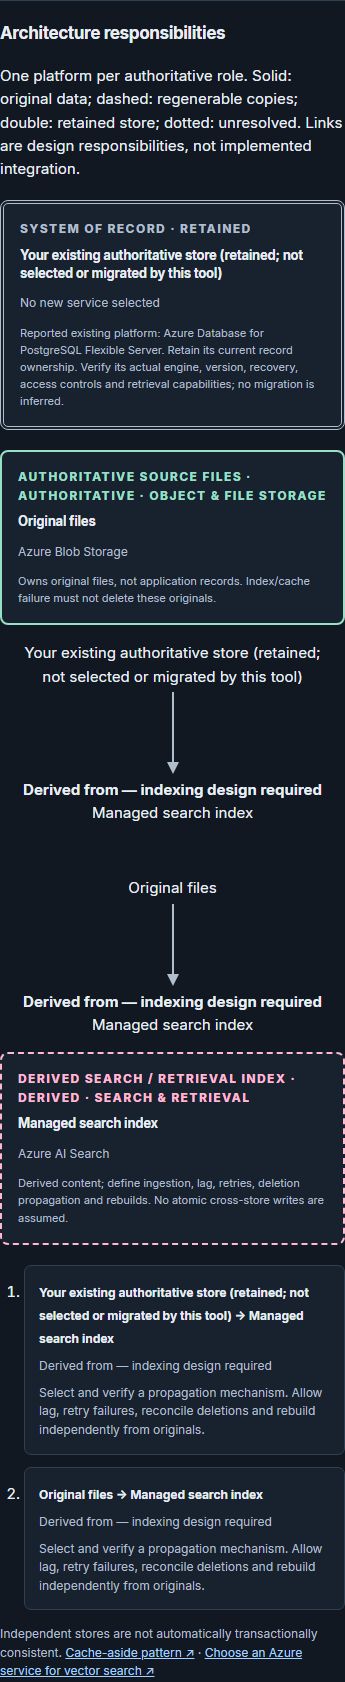
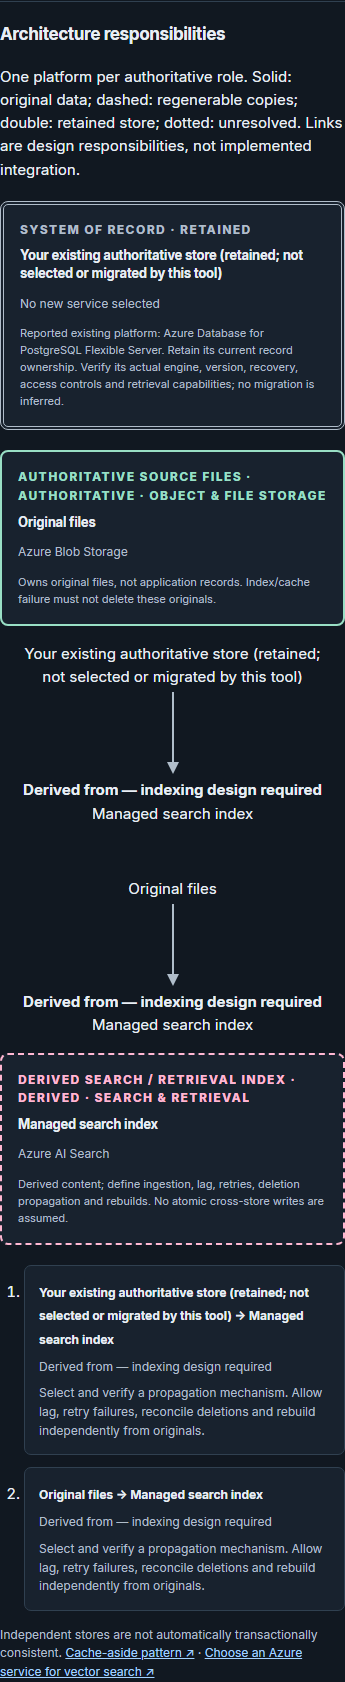
Preserve document engine contracts and whole-word badges
Gate JSON assessment prompts on declared engine contracts, keep MongoDB and Cassandra protocols distinct, and test badge word widths throughout all viewport/theme projects.

diff --git a/tests/reachable-results.test.js b/tests/reachable-results.test.js
@@ -9,6 +9,9 @@ import { resultIssues } from '../scripts/validation.mjs';
 import { serviceById } from '../src/data/services.js';
 import { sourceById } from '../src/data/sources.js';
 import { ruleById } from '../src/data/rules.js';
+import { scenarios } from '../src/data/scenarios.js';
+
+const contracts = ['sqlserver', 'postgres', 'mysql', 'mariadb', 'mongodb', 'cassandra'];
 
 test('UI-reachable sweep always names missing information and preserves document alternatives', (t) => {
   const sweeps = [
@@ -37,6 +40,54 @@ test('UI-reachable sweep always names missing information and preserves document
   }
   assert.ok(checked > 100000 && insufficient > 0 && documents > 0, `${checked} checked, ${insufficient} insufficient, ${documents} document shortlists`);
   t.diagnostic(`Pruned UI-answer sweep: ${checked} results; ${insufficient} insufficient outcomes have named unknowns; ${documents} document shortlists preserve relational alternatives.`);
+});
+
+test('document alternatives respect declared engine/client contracts in engine-inclusive reachable sweeps', (t) => {
+  const engines = [...contracts, 'unknown', 'other', undefined];
+  const sweeps = [
+    { workload: ['migration', 'mixed'], dataShape: ['documents'], relationships: null, accessPattern: null, migrationIntent: null, engine: engines, geography: null },
+    { workload: ['mixed'], dataShape: ['mixed'], relationships: ['aggregate', 'joins', 'unknown'], accessPattern: ['document-aggregate', 'partition-key-lookup', 'unknown'], engine: engines, geography: null, sourceFiles: null, durable: ['yes'], recordModel: ['documents'] }
+  ];
+  let checked = 0;
+  for (const domains of sweeps) {
+    for (const answers of reachableAnswers(domains, { persistence: 'durable', recovery: 'important' })) {
+      const result = evaluate(answers);
+      checked++;
+      const ids = result.candidates.map((item) => item.serviceId);
+      if (contracts.includes(answers.engine)) assert.deepEqual(result.alsoAssess || [], [], JSON.stringify(answers));
+      if (['mongodb', 'cassandra'].includes(answers.engine)) assert.ok(!ids.includes('cosmos-nosql'), JSON.stringify(answers));
+      if (!contracts.includes(answers.engine) && (answers.dataShape === 'documents' || answers.recordModel === 'documents') && ['shortlist', 'primary-candidate', 'multi-store'].includes(result.kind) && ids.some((id) => ['cosmos-nosql', 'azure-sql-db', 'postgres-flex'].includes(id))) {
+        for (const id of ['azure-sql-db', 'postgres-flex']) {
+          assert.ok(ids.includes(id) || result.alsoAssess?.some((item) => item.serviceId === id), JSON.stringify(answers));
+        }
+      }
+    }
+  }
+  t.diagnostic(`Engine-inclusive pruned UI-answer sweep: ${checked} results across nine engine states, migration intent and document/composite paths.`);
+});
+
+test('document contracts preserve MongoDB and Cassandra choices without cross-engine JSON prompts', () => {
+  const mongo = scenarios.find((scenario) => scenario.id === 'mongodb-migration').answers;
+  for (const geography of ['single-region', 'multi-region-read', 'multi-region-write']) {
+    const input = { ...mongo, geography };
+    assert.deepEqual(evaluate(input).candidates.map((item) => item.serviceId), ['azure-documentdb', 'cosmos-mongo-ru']);
+    assert.deepEqual(evaluate(input).alsoAssess, []);
+    const cassandra = { ...input, engine: 'cassandra', constraints: [] };
+    assert.deepEqual(evaluate(cassandra).candidates.map((item) => item.serviceId), ['cosmos-other-apis', 'managed-cassandra']);
+    for (const requirement of [{ relationships: 'joins' }, { consistency: 'business-atomic' }]) {
+      assert.deepEqual(evaluate({ ...cassandra, ...requirement }).candidates.map((item) => item.serviceId), ['cosmos-other-apis', 'managed-cassandra', 'azure-sql-db', 'postgres-flex']);
+    }
+    for (const engine of ['mysql', 'mariadb', 'postgres', 'sqlserver']) {
+      assert.deepEqual(evaluate({ ...input, engine }).alsoAssess, []);
+    }
+    const composite = evaluate({ ...input, workload: 'mixed', dataShape: 'mixed', durable: 'yes', recordModel: 'documents', sourceFiles: 'yes' });
+    assert.deepEqual(composite.alsoAssess, []);
+    assert.deepEqual(composite.architecture.find((node) => node.id === 'records').serviceIds, ['azure-documentdb', 'cosmos-mongo-ru']);
+  }
+  for (const engine of [undefined, 'unknown', 'other']) {
+    const result = evaluate({ ...scenarios.find((scenario) => scenario.id === 'distributed-json').answers, engine });
+    assert.deepEqual(result.alsoAssess.map((item) => item.serviceId), ['azure-sql-db', 'postgres-flex']);
+  }
 });
 
 test('retained vector assessment is conclusive, while index and source gaps are named', () => {

diff --git a/tests/browser/navigator.spec.js b/tests/browser/navigator.spec.js
@@ -92,6 +92,8 @@ test('all worked scenarios render the correct candidates and multi-store boundar
     await expect(page.locator('#app h1')).toBeFocused();
     if (result.alsoAssess?.length) {
       await expect(page.getByRole('heading', { name: 'Also assess — JSON does not exclude relational engines', exact: true })).toBeVisible();
+    } else if (scenario.id === 'mongodb-migration') {
+      await expect(page.getByRole('heading', { name: 'Also assess — JSON does not exclude relational engines', exact: true })).toHaveCount(0);
     }
     if (scenario.id === 'sqlserver-migration') {
       const performance = page.locator('.result-section').filter({ has: page.getByRole('heading', { name: 'Performance review', exact: true }) });
@@ -109,6 +111,45 @@ test('all worked scenarios render the correct candidates and multi-store boundar
     await noOverflow(page);
     await page.locator('[data-action="restart"]').click();
   }
+});
+
+test('badge, tag, chip and pill words fit across every scenario, explorer family and comparison', async ({ page }) => {
+  const wordsFit = async () => {
+    const failures = await page.evaluate(() => {
+      const failures = [];
+      for (const element of document.querySelectorAll('[class]')) {
+        if (![...element.classList].some((name) => /(?:badge|tag|chip|pill)/.test(name)) || !element.getClientRects().length) continue;
+        const style = getComputedStyle(element);
+        const width = element.getBoundingClientRect().width - parseFloat(style.paddingLeft) - parseFloat(style.paddingRight) - parseFloat(style.borderLeftWidth) - parseFloat(style.borderRightWidth);
+        const measure = document.createElement('span');
+        Object.assign(measure.style, { position: 'absolute', visibility: 'hidden', whiteSpace: 'nowrap', font: style.font, letterSpacing: style.letterSpacing, textTransform: style.textTransform });
+        document.body.append(measure);
+        for (const word of element.textContent.trim().split(/\s+|(?<=-)/)) {
+          measure.textContent = word;
+          const required = measure.getBoundingClientRect().width;
+          if (required > width + 1) failures.push({ className: element.className, word, required, width });
+        }
+        measure.remove();
+      }
+      return failures;
+    });
+    expect(failures).toEqual([]);
+    await noOverflow(page);
+  };
+  for (const scenario of scenarios) {
+    await page.locator('#scenario-select').selectOption(scenario.id);
+    await wordsFit();
+    await page.locator('[data-action="restart"]').click();
+  }
+  await page.locator('.primary-nav [data-view="explore"]').click();
+  const families = await page.locator('#family-filter option').evaluateAll((options) => options.map((option) => option.value));
+  for (const family of families) {
+    await page.locator('#family-filter').selectOption(family);
+    await page.locator('.service-card details').evaluateAll((details) => details.forEach((detail) => { detail.open = true; }));
+    await wordsFit();
+  }
+  await page.locator('.primary-nav [data-view="compare"]').click();
+  await wordsFit();
 });
 
 test('explorer filtering, aliases, two-to-three service comparison and concepts', async ({ page }) => {

diff --git a/src/logic/recommendations.js b/src/logic/recommendations.js
@@ -38,7 +38,7 @@ function getUnknowns(answers) {
 }
 
 function documentAlternatives(answers, candidates) {
-  if (answers.dataShape !== 'documents' || !candidates.length) return [];
+  if (answers.dataShape !== 'documents' || !candidates.length || ['sqlserver', 'postgres', 'mysql', 'mariadb', 'mongodb', 'cassandra'].includes(answers.engine)) return [];
   const distribution = answers.geography?.startsWith('multi-region')
     ? ' Validate measured regional latency, write geography and recovery separately; JSON support does not establish equivalent global writes.'
     : ' Check query patterns and transaction boundaries rather than assuming JSON requires a distributed document store.';
@@ -270,7 +270,7 @@ export function evaluate(input = {}) {
       }
     }
 
-    if (answers.dataShape === 'documents' && answers.geography?.startsWith('multi-region')) {
+    if (answers.dataShape === 'documents' && answers.geography?.startsWith('multi-region') && !['mongodb', 'cassandra'].includes(answers.engine)) {
       recordRule('document-access-pattern');
       candidateList.push(candidate('cosmos-nosql', 'A document data model with confirmed multi-region latency needs makes Cosmos DB for NoSQL worth evaluating.', 'This is not an automatic choice: design partition key, consistency, transaction boundaries, region strategy and cost. A relational system can remain appropriate.'));
     } else if (answers.dataShape === 'documents' && ['document-aggregate', 'partition-key-lookup'].includes(answers.accessPattern) && !['mongodb', 'cassandra'].includes(answers.engine)) {

diff --git a/src/data/rules.js b/src/data/rules.js
@@ -226,10 +226,10 @@ export const rules = [
   {
     id: 'json-also-assess', serviceIds: ['azure-sql-db', 'postgres-flex', 'cosmos-nosql'],
     configuration: 'Relational JSON alternatives remain assessment prompts, not mandatory extra stores or equivalent global writes.',
-    conditions: 'Any document-model shortlist keeps relational JSON alternatives visible unless they are already candidates; geography does not exclude them.',
+    conditions: 'Any document-model shortlist keeps relational JSON alternatives visible unless an existing engine/client contract is declared or they are already candidates; geography does not exclude them.',
     sourceIds: ['sql-json', 'postgres-json', 'postgres-overview', 'cosmos-consistency'], verifiedOn: RULE_REVIEWED_ON,
     limitations: 'Validate exact JSON feature/version, transaction and measured regional latency/write needs.',
-    test: 'global JSON preserves primary distribution candidate and explicit relational assessment alternatives'
+    test: 'document contracts preserve MongoDB and Cassandra choices without cross-engine JSON prompts'
   }
 ];
 

diff --git a/styles.css b/styles.css
@@ -321,7 +321,7 @@ select, .search-field input {
 .candidate-tag, .role-badge {
   flex: 0 1 auto;
   max-width: 45%;
-  overflow-wrap: anywhere;
+  overflow-wrap: break-word;
   padding: 3px 8px;
   border-radius: 999px;
   background: var(--accent-wash);
@@ -329,6 +329,7 @@ select, .search-field input {
   font-size: 10px;
   font-weight: 700;
 }
+.candidate-tag { flex: none; white-space: nowrap; }
 .candidate-alt { background: var(--surface-strong); color: var(--ink-muted); }
 .result-reason { margin: 12px 0; color: var(--ink-muted); font-size: 13px; }
 .service-facts { display: grid; grid-template-columns: repeat(3, minmax(0, 1fr)); gap: 8px; margin: 12px 0; }

diff --git a/docs/publication-checklist.md b/docs/publication-checklist.md
@@ -49,7 +49,7 @@ The local checks on 1 November 2026 cover deterministic rules, catalogue/source 
 
 A read-only pre-publication security review found no reportable vulnerability in the static/runtime, Markdown build, loopback server or workflow boundary. Advisory and targeted credential checks do not establish package provenance, exclude future vulnerabilities or substitute for a comprehensive organisational secret scan.
 
-The targeted repository scan checks private-key blocks, common GitHub/AWS token patterns and Azure Storage account-key strings. It is not a comprehensive secret certification. The corrected suite contains 68 Node tests and 56 Chromium workflow/accessibility tests; the full build validates 9 HTML pages and includes 8 genuine screenshots. A 615,528-result sweep prunes answers using question applicability and checks named unknowns plus document alternatives; it is not an exhaustive proof across every configuration input.
+The targeted repository scan checks private-key blocks, common GitHub/AWS token patterns and Azure Storage account-key strings. It is not a comprehensive secret certification. The corrected suite contains 70 Node tests and 64 Chromium workflow/accessibility tests; the full build validates 9 HTML pages and includes 8 genuine screenshots. A 615,528-result sweep prunes answers using question applicability and checks named unknowns plus document alternatives. A separate 11,961-result engine-inclusive sweep covers engine/client contracts, migration intent and composite document roles. These are not exhaustive proofs across every configuration input. Browser checks measure badge/tag/chip/pill words across every scenario, explorer family and comparison in all eight viewport/theme projects.
 
 Publication still requires owner approval, GitHub Actions verification, current external source/link review, actual screen-reader review and independently verified public application/article URLs after authorised deployment.
 

diff --git a/docs/decision-model.md b/docs/decision-model.md
@@ -51,7 +51,7 @@ Unknown is not unsupported. A result cannot turn missing feature evidence into a
 
 ## Candidate explanation
 
-Every document-model shortlist keeps justified candidates but exposes `alsoAssess` SQL Database/PostgreSQL JSON alternatives unless they are already candidates. Single-region wording concerns query/transaction shape; multi-region wording also names measured distribution/recovery gates. Composite document record roles inherit these prompts from the same policy. These are assessment alternatives, not mandatory additional stores or equivalent global-write guarantees.
+Every document-model shortlist keeps justified candidates but exposes `alsoAssess` SQL Database/PostgreSQL JSON alternatives unless an existing engine/client contract is declared or they are already candidates. Single-region wording concerns query/transaction shape; multi-region wording also names measured distribution/recovery gates. Composite document record roles inherit these prompts from the same policy. These are assessment alternatives, not mandatory additional stores or equivalent global-write guarantees.
 
 A confirmed retained store with explicitly selected source-store retrieval receives a conclusive no-new-database outcome. This does not certify retrieval performance or migration compatibility. Open index-justification, freshness and authoritative-content-source requirements are named explicitly; every insufficient-information result must contain at least one unknown. The pruned UI-answer sweep uses question applicability predicates and removes hidden answers before checking this invariant.
 

diff --git a/docs/screenshots.md b/docs/screenshots.md
@@ -2,6 +2,8 @@
 
 All eight PNGs in `screenshots/` are genuine Chromium/Playwright captures from the corrected local production application at `/azure-database-navigator/`, captured on **1 November 2026**. They are not deployment evidence, customer screenshots or image-model mock-ups.
 
+The captures were refreshed after correcting badge sizing: candidate tags keep whole words and role badges wrap only between words. The browser matrix also measures the longest word against each badge's content width.
+
 | File | Actual state | Viewport / theme |
 |---|---|---|
 | `assessment-midflow-light-1024.png` | Question 6, relational access-pattern answer actively selected | 1024 px / light |
